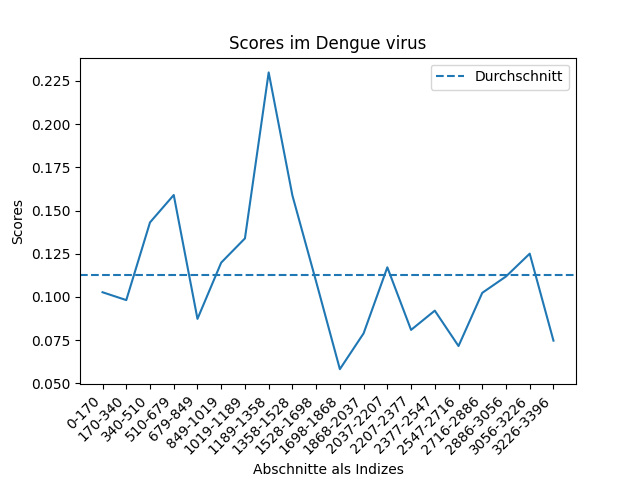
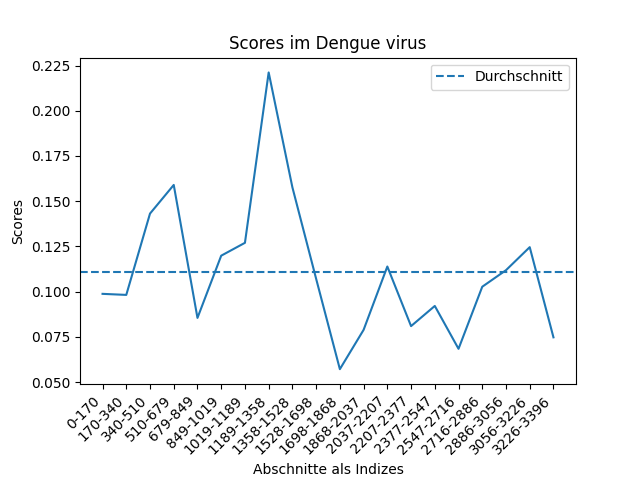
continue writing (backup)

diff --git a/Thesis/Bachelorarbeit.tex b/Thesis/Bachelorarbeit.tex
@@ -15,7 +15,7 @@
 % Language of the thesis:
 %
 % You must use either 'german' or 'english' above, depending on the
-% language used in the main text. This will automatically setup a lot
+% language used in the main text. This will automatically setup a lot 
 % of things in the background.
 %
 %
@@ -327,7 +327,8 @@
 %
 %%%%%%%
 
-
+\setcounter{secnumdepth}{3}
+\setcounter{tocdepth}{3}
 
 
 
@@ -360,8 +361,10 @@ Dengue-Viren sind Arboviren, die haupts\"achlich durch Stechm\"ucken, insbesonde
   \label{fig:Dengue_virus_infektionszahlen_deutschland}
 \end{figure}
 
-Es ist wichtig, die Mutationen der Virenfamilie zu untersuchen und Vorhersagen \"uber die Bereiche zu machen, in denen das Virus eher mutieren kann und wo eher nicht, da Viren, wie die Dengue-Viren, Meister darin sind, das Immunsystem des Menschen zu \"uberlisten. Durch Mutationen k\"onnen sie sich besser an neue Wirte und Umgebungen anpassen, was ihre Verbreitung erleichtert und die Bek\"ampfung erschwert \cite{cramer_dengue-virus_2014}\cite{janisch_klein_2017}. Das Verst\"andnis der Mutationsmuster hilft bei der epidemiologischen \"Uberwachung. Wenn bekannt ist, welche Bereiche des Virusgenoms stabil sind und welche zu Mutationen neigen, k\"onnen Gesundheitsbeh\"orden besser absch\"atzen, wann und wo neue Ausbr\"uche auftreten k\"onnten. Dies ist besonders wichtig in Regionen, in denen invasive Stechm\"uckenarten wie Aedes albopictus nachgewiesen wurden, die als Vektoren f\"ur verschiedene Viren dienen k\"onnen \cite{cramer_dengue-virus_2014}. Die F\"ahigkeit, Mutationen vorherzusagen, kann helfen, potenzielle Pandemien fr\"uhzeitig zu erkennen und Ma\ss{}nahmen zu ergreifen, bevor sich das Virus weit verbreitet \cite{janisch_klein_2017}. Durch die Identifikation stabiler und variabler Regionen des Virusgenoms k\"onnen stabilere Impfstoffe und gezieltere Therapien entwickelt werden. Bei der Entwicklung von Impfstoffen und Medikamenten ist es wichtig absch\"atzen zu k\"onnen, welche Teile des Virus mutieren, da Impfstoffe und antivirale Therapien oft auf spezifische Teile des Virus zielen. Wenn diese Teile mutieren, k\"onnen Impfstoffe und Medikamente weniger wirksam werden \cite{janisch_klein_2017}. 
+Es ist wichtig, die Mutationen der Virenfamilie zu untersuchen und Vorhersagen \"uber die Bereiche zu machen, in denen das Virus eher mutieren kann und wo eher nicht, da Viren, wie die Dengue-Viren, Meister darin sind, das Immunsystem des Menschen zu \"uberlisten. Durch Mutationen k\"onnen sie sich besser an neue Wirte und Umgebungen anpassen, was ihre Verbreitung erleichtert und die Bek\"ampfung erschwert \cite{cramer_dengue-virus_2014, janisch_klein_2017}. Das Verst\"andnis der Mutationsmuster hilft bei der epidemiologischen \"Uberwachung. Wenn bekannt ist, welche Bereiche des Virusgenoms stabil sind und welche zu Mutationen neigen, k\"onnen Gesundheitsbeh\"orden besser absch\"atzen, wann und wo neue Ausbr\"uche auftreten k\"onnten. Dies ist besonders wichtig in Regionen, in denen invasive Stechm\"uckenarten wie Aedes albopictus nachgewiesen wurden, die als Vektoren f\"ur verschiedene Viren dienen k\"onnen \cite{cramer_dengue-virus_2014}. Die F\"ahigkeit, Mutationen vorherzusagen, kann helfen, potenzielle Pandemien fr\"uhzeitig zu erkennen und Ma\ss{}nahmen zu ergreifen, bevor sich das Virus weit verbreitet \cite{janisch_klein_2017}. Durch die Identifikation stabiler und variabler Regionen des Virusgenoms k\"onnen stabilere Impfstoffe und gezieltere Therapien entwickelt werden. Bei der Entwicklung von Impfstoffen und Medikamenten ist es wichtig absch\"atzen zu k\"onnen, welche Teile des Virus mutieren, da Impfstoffe und antivirale Therapien oft auf spezifische Teile des Virus zielen. Wenn diese Teile mutieren, k\"onnen Impfstoffe und Medikamente weniger wirksam werden \cite{janisch_klein_2017}. 
 Insgesamt erm\"oglicht die Untersuchung von Virusmutationen eine proaktive und gezielte Reaktion auf virale Bedrohungen, was entscheidend f\"ur den Schutz der \"offentlichen Gesundheit ist.
+
+Mutationsdruck und Konservierungsdruck erw\"ahnen und kurz erl\"autern!
 
 \section{Beitr\"age dieser Arbeit}
 % In a German thesis write: \section{Beiträge dieser Arbeit}
@@ -410,7 +413,8 @@ Insgesamt erm\"oglicht die Untersuchung von Virusmutationen eine proaktive und g
 \chapter{Material und Methoden}%: Document Setup and Document Structure}
 \label{chapter-use}
 
-\section{Dengue-Virus}
+\section{(Bio-)chemische Grundlagen}
+\subsection{Dengue-Virus}
 Serotypen sind Untergruppen von Mikroorganismen, wie Viren oder Bakterien, die sich durch spezifische antigenetische Eigenschaften unterscheiden. Diese Unterschiede beziehen sich auf die Struktur von Antigenen, die auf der Oberfl\"ache der Mikroben vorhanden sind. Serotypen k\"onnen durch serologische Tests identifiziert werden, bei denen Antik\"orper verwendet werden, um die Reaktion auf bestimmte Antigene zu bestimmen. Im Kontext von Viren, wie den Dengue-Viren, beziehen sich Serotypen auf die vier verschiedenen Varianten (DENV-1 \cite{tittarelli_dengue_2014}, DENV-2 \cite{cao_retrospective_2023}, DENV-3 \cite{peyrefitte_genetic_2003} und DENV-4 \cite{wardhani_genetic_2023}), die unterschiedliche immunologische Reaktionen hervorrufen k\"onnen. In dieser Arbeit schauen wir uns alle vier Serotypen an, um Mutationen zwischen den verschiedenen Serotypen untersuchen zu k\"onnen. 
 Dengue-Viren sind umh\"ullte, positive-Strang-RNA-Viren, die zur Familie der Flaviviridae geh\"oren. Der Virusk\"orper besteht aus einer Lipid-Doppelschicht, die von Membran- (M) und H\"ullproteinen (E) umgeben ist. Im Inneren befindet sich das Nukleokapsid, das aus dem Kapsidprotein (C) und dem Genom-RNA-Strang zusammengesetzt ist. Die H\"ullproteine (E) sind Typ-II-Transmembranproteine, die aus einer N-terminalen Ektodom\"ane, einer Transmembrandom\"ane und einer C-terminalen zytoplasmatischen Dom\"ane bestehen. Die Ektodom\"ane ist f\"ur die Bindung an Wirtszellrezeptoren und die Fusion mit der Wirtszellmembran verantwortlich. Die Transmembrandom\"ane verankert das E-Protein in der Virush\"ulle und durchspannt die Lipid-Doppelschicht. Die kurze zytoplasmatische Dom\"ane interagiert mit dem Kapsidprotein. Die Membranproteine (M) sind ebenfalls Typ-II-Transmembranproteine, die aus einer N-terminalen Ektodom\"ane, einer Transmembrandom\"ane und einer C-terminalen zytoplasmatischen Dom\"ane aufgebaut sind. Sie sind an der Reifung und Freisetzung infekti\"oser Viruspartikel beteiligt. Beide Transmembranproteine, E und M, durchspannen die Lipid-Doppelschicht der Virush\"ulle mit ihren hydrophoben Transmembrandom\"anen. Diese Dom\"anen sind f\"ur die Verankerung und Stabilit\"at der Proteine in der Membran von entscheidender Bedeutung. Mutationen in diesen Regionen k\"onnen die Faltung, Insertion und Stabilit\"at der Proteine beeinflussen und somit die Infektiosit\"at und \"Uberlebensf\"ahigkeit des Virus beeintr\"achtigen. Dengue-Viren besitzen au\ss{}erdem einige nicht-strukturelle Proteine, die f\"ur den Lebenszyklus des Virus entscheidend sind. Die wichtigsten Proteine, die in diesem Zusammenhang erw\"ahnt werden, sind: 2K, NS1, NS2A, NS2B, NS3, NS4A, NS4B und NS5. 2K ist ein kleines Protein, das als Transmembranprotein fungiert und eine Rolle bei der Virusreifung spielt. NS1 ist ein wichtiges virales Glycoprotein, das in der Zelle sekretiert wird und an der Virusreplikation beteiligt ist. Es hat keine transmembrane Region, sondern ist haupts\"achlich im Zytoplasma und im Extrazellul\"arraum aktiv. NS2A ist ein kleines, hydrophobes Protein, das als Transmembranprotein wirkt und an der Membran des endoplasmatischen Retikulums lokalisiert ist. Es spielt eine Rolle bei der Virusreplikation und der Modifikation der Wirtszellmembran. NS2B ist ein Co-Faktor f\"ur die Protease NS3 und hat eine transmembrane Region, die es in die Membran des endoplasmatischen Retikulums einbettet. NS3 ist ein wichtiges Enzym, das als Serinprotease und RNA-Helikase fungiert. Es hat eine transmembrane Region, die es in die Membran integriert. NS4A ist ebenfalls ein Transmembranprotein und spielt eine Rolle in der Virusreplikation und der Modulation der Wirtszellantwort. NS4B ist ein weiteres Transmembranprotein, das an der Virusreplikation beteiligt ist und in der Membran des endoplasmatischen Retikulums lokalisiert ist. NS5 ist das gr\"o\ss{}te Protein des Dengue-Virus, das als RNA-abh\"angige RNA-Polymerase fungiert. Es hat auch eine transmembrane Region, die es in die Membran einbettet.
 Insgesamt sind die Transmembranproteine im Dengue-Virus: E, M, 2K, NS2A, NS2B, NS3, NS4A, NS4B und NS5. Wobei NS2A fast vollst\"andig in der Membran verankert liegt. Der Aufbau des Dengue-Virus und die transmembranen Regionen sind in der Abbildung \ref{fig:Dengue_virus_overview} aus dem Paper \citetitle{perera_structural_2008} von \citeauthor{perera_structural_2008} \cite{perera_structural_2008} visualisiert. \\
@@ -423,9 +427,9 @@ Insgesamt sind die Transmembranproteine im Dengue-Virus: E, M, 2K, NS2A, NS2B, N
 
 Die Untersuchung der Transmembranproteine im Dengue-Virus bietet nicht nur Einblicke in deren strukturelle Eigenschaften, sondern \"offnet auch den Weg zu einem tiefergehenden Verst\"andnis der Wechselwirkungen zwischen diesen Proteinen und ihrer Umgebung. Insbesondere die hydrophoben und hydrophilen Bereiche der Transmembranregionen spielen eine entscheidende Rolle f\"ur die Stabilit\"at und Funktionalit\"at der Proteine. Um die spezifischen Eigenschaften dieser Bereiche zu quantifizieren, ist es notwendig, die Konzepte der polar requirements und der Hydropathie zu betrachten. Diese Konzepte erm\"oglichen es, die hydrophilen und hydrophoben Eigenschaften der Aminos\"auresequenzen zu messen und zu analysieren, was f\"ur das Verst\"andnis der Interaktionen zwischen den transmembren Bereichen und ihrer Umgebung von zentraler Bedeutung ist.
 
-\section{Hydropathie und polar requirements}
+\subsection{Hydropathie und polar requirements}
 Hydropathie beschreibt die Affinit\"at eines Molek\"uls zu Wasser. Molek\"ule k\"onnen als hydrophil (wasserliebend) oder hydrophob (wasserabweisend) klassifiziert werden. Diese Eigenschaften beeinflussen, wie Molek\"ule in biologischen Systemen interagieren, insbesondere in Bezug auf Proteine und deren Funktion. Hydropathie wird besonders h\"aufig verwendet, um eine bestimmte Untergruppe von Proteinen, die Membranproteine, zu untersuchen. Diese liegen teilweise in der Membran und k\"onnen transmembrane Regionen besitzen, wo das Protein die Membran einmal vollst\"andig durchzieht. Jedes Molek\"ul hat ein charakteristisches Hydropathie-Profil, das als eine Art "`Fingerabdruck"' f\"ur seine Struktur betrachtet werden kann. Diese Profile werden h\"aufig verwendet, um die Struktur und Funktion von Membranproteinen zu analysieren und um Beziehungen zwischen verschiedenen Transportproteinen zu identifizieren. In biologischen Systemen spielen hydrophobe und hydrophile Wechselwirkungen eine entscheidende Rolle bei der Faltung von Proteinen, der Bildung von Zellmembranen und der Funktion von Enzymen. Das Verst\"andnis dieser Eigenschaften hilft bei der Vorhersage, wie Molek\"ule in zellul\"aren Umgebungen interagieren. Hydropathie-Analysen werden in der Bioinformatik und Strukturbiologie eingesetzt, um die Topologie von Membranproteinen vorherzusagen und deren funktionelle Eigenschaften besser zu verstehen. Zusammenfassend ist die Hydropathie eine grundlegende chemische Eigenschaft, die entscheidend f\"ur das Verst\"andnis der Molek\"ulinteraktionen in biologischen Systemen ist. Da sie die grundlegenden Molek\"uleigenschaften des Proteins beschreibt. 
-Somit hat auch jede Aminos\"aure einen spezifischen Hydropathiewert. In dieser Arbeit verwenden wir die Werte aus dem Paper \citetitle{kyte_simple_1982} von \citeauthor{kyte_simple_1982} \cite{kyte_simple_1982}. Die in der Abbildung \ref{fig:Hydropathieindexe} zu sehen sind. Die Hydropathie-Indizes, wie sie von \citeauthor{kyte_simple_1982} entwickelt wurden, quantifizieren die hydrophoben und hydrophilen Eigenschaften von Aminos\"auren in Proteinen. Diese Indizes basieren auf der Messung der Energie, die erforderlich ist, um eine Aminos\"aure aus einer w\"assrigen L\"osung in eine hydrophobe Umgebung zu transferieren. Im Wesentlichen wurde f\"ur jede Aminos\"aure ein Wert zugewiesen, der ihre Neigung beschreibt, sich in w\"assriger Umgebung zu l\"osen oder in einer hydrophoben Phase zu verbleiben. Die Werte reichen von stark negativ (sehr hydrophil) bis stark positiv (sehr hydrophob).
+Somit hat auch jede Aminos\"aure einen spezifischen Hydropathiewert. In dieser Arbeit verwenden wir die Werte aus dem Paper \citetitle{kyte_simple_1982} von \citeauthor{kyte_simple_1982} \cite{kyte_simple_1982}, die in der Abbildung \ref{fig:Hydropathieindexe} zu sehen sind. Die Hydropathie-Indizes, wie sie von \citeauthor{kyte_simple_1982} entwickelt wurden, quantifizieren die hydrophoben und hydrophilen Eigenschaften von Aminos\"auren in Proteinen. Diese Indizes basieren auf der Messung der Energie, die erforderlich ist, um eine Aminos\"aure aus einer w\"assrigen L\"osung in eine hydrophobe Umgebung zu transferieren. Im Wesentlichen wurde f\"ur jede Aminos\"aure ein Wert zugewiesen, der ihre Neigung beschreibt, sich in w\"assriger Umgebung zu l\"osen oder in einer hydrophoben Phase zu verbleiben. Die Werte reichen von stark negativ (sehr hydrophil) bis stark positiv (sehr hydrophob).
 \begin{figure}[htpb]
   \centering
   \includegraphics[scale=0.75]{Images/Hydropathy_scores_Paper.png}
@@ -435,26 +439,32 @@ Somit hat auch jede Aminos\"aure einen spezifischen Hydropathiewert. In dieser A
 In dem Paper \citetitle{kyte_simple_1982} \cite{kyte_simple_1982} werden vier spezifische Werte des Hydropathie-Index manuell angepasst. Diese Anpassungen betreffen die Aminos\"auren Glycin, Alanin, Serin und Threonin. Die Gr\"unde f\"ur diese \"Anderungen sind, dass die Autoren die Hydropathie-Indexe dieser Aminos\"auren so modifizieren wollten, dass sie besser die experimentellen Beobachtungen und die biologischen Eigenschaften der Proteine widerspiegeln.
 
 Im chemischen Kontext beziehen sich "`polar requirements"' auf die spezifischen Eigenschaften und Bedingungen, die f\"ur polare Molek\"ule oder chemische Verbindungen erforderlich sind, um in einer bestimmten Umgebung stabil zu sein oder zu interagieren. Diese Anforderungen k\"onnen die Polarit\"at, L\"oslichkeit, Wechselwirkungen mit anderen Molek\"ulen und die F\"ahigkeit zur Bildung von Wasserstoffbr\"ucken umfassen. Molek\"ule mit polaren Gruppen (z. B. Hydroxyl- oder Carboxylgruppen) haben unterschiedliche Eigenschaften im Vergleich zu unpolaren Molek\"ulen. Die Polarit\"at beeinflusst, wie Molek\"ule in L\"osungsmitteln interagieren, insbesondere in w\"assrigen L\"osungen. Polare Molek\"ule sind in polaren L\"osungsmitteln wie Wasser besser l\"oslich. Die polar requirements helfen zu bestimmen, welche Molek\"ule in bestimmten chemischen Reaktionen oder biologischen Prozessen effektiv interagieren k\"onnen. Die polar requirements sind entscheidend f\"ur die Vorhersage von Wechselwirkungen zwischen Molek\"ulen, wie z. B. zwischen Enzymen und Substraten oder zwischen Rezeptoren und Liganden. In der Biochemie sind die polar requirements wichtig f\"ur das Verst\"andnis der Struktur und Funktion von Biomolek\"ulen, einschlie\ss{}lich Proteinen und Nukleins\"auren. Auch polar requirements sind entscheidend f\"ur das grundlegende Verst\"andnis der Molek\"uleigenschaften eines Proteins. 
-Aminos\"auren haben spezifische polar requirements Werte. In dieser Arbeit nutzen wir die Werte aus der Arbeit \citetitle{woese_fundamental_1966} von \citeauthor{woese_fundamental_1966} \cite{woese_fundamental_1966}. Die in der Abbildung \ref{fig:Polar_requirements_indexe} zu sehen sind. 
+Aminos\"auren haben spezifische polar requirements Werte. In dieser Arbeit nutzen wir die Werte aus der Arbeit \citetitle{woese_fundamental_1966} von \citeauthor{woese_fundamental_1966} \cite{woese_fundamental_1966}, die in der Abbildung \ref{fig:Polar_requirements_indexe} zu sehen sind. 
 \begin{figure}[htpb]
   \centering
   \includegraphics[scale=0.6]{Images/polar_requirements_scores_Paper.png}
   \caption{Aminos\"auren mit zugeh\"origen Polar requirements Werten aus \citetitle{woese_fundamental_1966} \cite{woese_fundamental_1966}}
   \label{fig:Polar_requirements_indexe}
 \end{figure}
+Dabei ist zu beachten, dass der Cystein Wert von 11,5 auf 5,5 korrigiert wurde, in dem Paper \citetitle{woese_evolution_1973} von \citeauthor{woese_evolution_1973} im Jahr \citeyear{woese_evolution_1973} \cite{woese_evolution_1973}. Wir nutzen somit die Tabelle mit einem angepassten Cystein-Wert von 5,5. 
 Die Polar-Requirements-Werte, wie sie von \citeauthor{woese_fundamental_1966} eingef\"uhrt wurden, geben an, wie stark eine Aminos\"aure polare Wechselwirkungen eingeht. Diese Werte wurden durch die Messung der freien Enthalpie berechnet, die erforderlich ist, um eine Aminos\"aure von einer unpolaren in eine polare Umgebung zu transferieren. Die polar requirements Werte wurden in einem Experiment bestimmt, bei dem die L\"oslichkeit jeder Aminos\"aure in Wasser und einem unpolaren L\"osungsmittel gemessen wurde. Konkret verwendeten sie Octanol als unpolare Phase. Das Experiment lief folgenderma\ss{}en ab: F\"ur jede der 20 proteinogenen Aminos\"auren wurde die L\"oslichkeit in Wasser und Octanol bestimmt. Dazu wurde eine definierte Menge der Aminos\"aure in beide L\"osungsmittel gegeben und die Konzentration in der jeweiligen Phase gemessen. Aus dem Unterschied in der L\"oslichkeit konnte dann die freie Enthalpie f\"ur den Transfer zwischen den beiden Phasen berechnet werden. Je gr\"o\ss{}er der Wert, desto st\"arker die Tendenz der Aminos\"aure, polare Wechselwirkungen einzugehen und sich in einer w\"assrigen Umgebung aufzuhalten. Die Werte reichen von sehr niedrig (unpolar) bis sehr hoch (polar). Sie erm\"oglichen es, die Aminos\"auren nach ihrer Polarit\"at zu ordnen und R\"uckschl\"usse auf die Oberfl\"achenexposition und Interaktionen von Proteinen zu ziehen. In Kombination mit anderen Parametern wie den Hydropathie-Indizes liefern sie wertvolle Informationen f\"ur die Strukturvorhersage und das Proteindesign.
 
 Obwohl Hydropathie und polar requirements \"ahnliche Eigenschaften untersuchen, zeigt sich bei den Werten einige Unterschiede. Da nicht alle Aminos\"auren einduetig zu klassifiezieren sind, wenn man nur eine der beiden Molek\"uleigenschaften verwendet und somit wertvolle Information \"uber die Struktur des Proteins verloren geht. Aus diesem Grund verwenden wir beide Werte f\"ur die Berechnung. 
 
-\section{Biopython}
-In dieser Arbeit wurde Biopython, eine Sammlung von Python-Bibliotheken f\"ur die Bioinformatik, verwendet, um die Datenanalyse durchzuf\"uhren. Biopython erm\"oglicht die einfache Handhabung von biologischen Datenformaten und die Durchf\"uhrung komplexer bioinformatischer Analysen. Das Modul SeqIO wurde in dieser Arbeit verwendet, um Sequenzen einzulesen. 
+\section{(Bio-)informatische Grundlagen}
+\subsection{Die verwendeten Tools}
+In dieser Arbeit wurde Python \cite{python} als Programmiersprache verwendet, um die Daten zu analysieren und die Ergebnisse zu generieren. Python bietet eine Vielzahl von Bibliotheken wie NumPy \cite{numpy} und Matplotlib \cite{matplotlib}, die speziell f\"ur die Datenanalyse und Visualisierung entwickelt wurden. Zus\"atzlich wurden Funktionen aus den Biopython-Modulen  \cite{cock2009biopython} SeqIO und SeqRecord, sowie Path aus pathlib \cite{pathlib} verwendet. Diese Tools erm\"oglichen es, Daten effizient zu verarbeiten, zu manipulieren und zu visualisieren, was entscheidend f\"ur die Qualit\"at der Analyse ist. Die Verwendung von Python in der Datenanalyse hat sich als vorteilhaft erwiesen, da es eine hohe Flexibilit\"at und Benutzerfreundlichkeit bietet.
 
-\section{T-Coffee}
-T-Coffee (Tree-based Consistency Objective Function for Alignment Evaluation) ist ein in der Bioinformatik weit verbreitetes Werkzeug zur Ausrichtung von DNA-, RNA- und Proteinsequenzen. T-Coffee arbeitet mit einer Ausrichtungsstrategie in Kombination mit einer konsistenzbasierten Bewertungsfunktion. Der Algorithmus f\"ur T-Coffee wird haupts\"achlich in der Originalver\"offentlichung \citetitle{poirot_tcoffeeigs_2003} \cite{poirot_tcoffeeigs_2003} beschrieben. Der Algorithmus hat die folgenden Hauptschritte. Zun\"achst generiert T-Coffee alle m\"oglichen paarweisen Ausrichtungen zwischen den Eingabesequenzen unter Verwendung globaler und lokaler Ausrichtungsmethoden. Anschlie\ss{}end erstellt es eine prim\"are Bibliothek mit Ausrichtungsinformationen aus diesen paarweisen Ausrichtungen und weist jedem ausgerichteten Residuenpaar basierend auf seiner Konsistenz \"uber verschiedene Ausrichtungen hinweg Gewichte zu. Die prim\"are Bibliothek wird durch Einbeziehung transitiver Ausrichtungen erweitert, was hilft, indirekte Beziehungen zwischen Sequenzen zu erfassen. Unter Verwendung der erweiterten Bibliothek konstruiert T-Coffee einen F\"uhrungsbaum und f\"uhrt eine progressive Ausrichtung durch, wobei zun\"achst die \"ahnlichsten Sequenzen ausgerichtet und dann nach und nach entferntere Sequenzen hinzugef\"ugt werden. Die anf\"angliche Ausrichtung wird iterativ verfeinert, um ihre Gesamtqualit\"at und -konsistenz zu verbessern.
+Zus\"atzlich zu Python wurde T-Coffee verwendet, um Ausrichtungen von Seuqnzen zu erzeugen. T-Coffee (Tree-based Consistency Objective Function for Alignment Evaluation) ist ein in der Bioinformatik weit verbreitetes Werkzeug zur Ausrichtung von DNA-, RNA- und Proteinsequenzen. T-Coffee arbeitet mit einer Ausrichtungsstrategie in Kombination mit einer konsistenzbasierten Bewertungsfunktion. Der Algorithmus f\"ur T-Coffee wird haupts\"achlich in der Originalver\"offentlichung \citetitle{poirot_tcoffeeigs_2003} \cite{poirot_tcoffeeigs_2003} beschrieben. Der Algorithmus hat die folgenden Hauptschritte. Zun\"achst generiert T-Coffee alle m\"oglichen paarweisen Ausrichtungen zwischen den Eingabesequenzen unter Verwendung globaler und lokaler Ausrichtungsmethoden. Anschlie\ss{}end erstellt es eine prim\"are Bibliothek mit Ausrichtungsinformationen aus diesen paarweisen Ausrichtungen und weist jedem ausgerichteten Residuenpaar basierend auf seiner Konsistenz \"uber verschiedene Ausrichtungen hinweg Gewichte zu. Die prim\"are Bibliothek wird durch Einbeziehung transitiver Ausrichtungen erweitert, was hilft, indirekte Beziehungen zwischen Sequenzen zu erfassen. Unter Verwendung der erweiterten Bibliothek konstruiert T-Coffee einen F\"uhrungsbaum und f\"uhrt eine progressive Ausrichtung durch, wobei zun\"achst die \"ahnlichsten Sequenzen ausgerichtet und dann nach und nach entferntere Sequenzen hinzugef\"ugt werden. Die anf\"angliche Ausrichtung wird iterativ verfeinert, um ihre Gesamtqualit\"at und -konsistenz zu verbessern.
 T-Coffee zeichnet sich durch seine hohe Genauigkeit aus, insbesondere bei der Bearbeitung kurzer Sequenzen. Es wurde mit anderen Ausrichtungswerkzeugen verglichen und hat gezeigt, dass es Ausrichtungen mit einer Genauigkeit produziert, die mit anderen Methoden wie MUSCLE \cite{Edgar2004MUSCLEL} vergleichbar oder besser ist.
 
-\section{Berechnungsgrundlagen}
-In den folgenden Diagrammen schauen wir uns das Polyprotein des Dengue-Virus an und teilen daf\"ur das Protein in 20 gleich gro\ss{}e Abschnitte auf. F\"ur diese Abschnitte f\"uhren wir die Berechnungen jeweils durch und stellen die einzelnen Ergebnisse dann in einer Grafik gemeinsam dar. Die Serotypen wurden hierf\"ur zuerst mit T-Coffee ausgerichtet. Dadurch waren alle Sequenzen gleich lang und konnten somit in gleich gro\ss{}e Bereiche aufgeteilt werden. Im Folgenden ist von einzelnen Stellen der Sequenzen die Rede; dabei ist gemeint, dass man sich in dem Alignment an einer Stelle alle Sequenzen anschaut. 
+\subsection{Das Erzeugen der Ausgangsdaten und der Diagramme}
+F\"ur die Berechnung werden FASTA-Dateien als Eingabe verlangt. Das FASTA-Dateiformat ist ein textbasiertes Format zur Darstellung von Nukleotid- oder Proteinsequenzen. Es erm\"oglicht die Speicherung mehrerer Sequenzen in einer einzigen Datei. Um die Eingaben f\"ur die Berechnung zu erstellen wurden FASTA-Daten von allen Dengue-Virus-Serotypen (DENV-1 \cite{tittarelli_dengue_2014}, DENV-2 \cite{cao_retrospective_2023}, DENV-3 \cite{peyrefitte_genetic_2003} und DENV-4 \cite{wardhani_genetic_2023}) aus GenBank \cite{genbank} genutzt. GenBank ist eine der bedeutendsten Datenbanken f\"ur DNA-Sequenzen und wird vom National Center for Biotechnology Information (NCBI) betrieben. Sie enth\"alt \"uber 240 Millionen Sequenzen von mehr als einer Million Spezies und dient als zentrale Ressource f\"ur Wissenschaftler, um genetische Informationen zu speichern, abzurufen und zu analysieren.
+Die einzelnen FASTA-Daten wurden f\"ur die ersten Berechnungen in eine gemeinsame FASTA-Datei kopiert und dann mithilfe von dem online Tool T-Coffee ausgerichtet. Diese FASTA-Datei konnte dann f\"ur die Berechnung genutzt werden. Da f\"ur die weitere Auswertung und Berechnung einzelne FASTA-Dateien, in denen jeweils nur ein Protein des Dengue-Virus mit allen Serotypen ausgereichtet wurde, ben\"otigt wurden. Mussten hierf\"ur ein extra Ordner mit FASTA-Dateien erstellt werden. Daf\"ur wurden wieder GenBank-Daten von den Serotypen genutzt. Die mithilfe von Biopython und pathlib einzelnd eingelesen und dann in die jeweiligen Sequenzbereiche aufgeteilt wurden, in dem nach den Sequenzbereichen gesucht wurde, in denen die jeweiligen Proteine liegen. F\"ur jedes Protein wurde dann eine einzelne FASTA-Datei erstellt, in der die entsprechende Sequenz abgelegt wurde. Alle diese FASTA-Dateien f\"ur einen Serotypen wurden automatisch in einem Ordner gesammelt. Es wurden mithilfe von Biopython und pathlib also 4 Ordner f\"ur die 4 Serotypen erstellt, in denen jeweils FASTA-Dateien liegen, die die ben\"otigten Sequenzbereiche beinhalten. Da wir f\"ur die Auswertung jedoch pro Protein eine Datei ben\"otigen, die alle Serotype beinhaltet und ausgerichtet wurde, musste man nun h\"andisch die entsprechenden Dateien zusammenkopieren und mit dem online Tool T-Coffee ausrichten. 
+Um die Ergebnsse der Berechnung anschlie\ss{}end zu visualisieren wurden Abbildungen mithilfen von Matplotlib erzeugt.
+
+\subsection{Berechnungsgrundlagen}
+In den folgenden Diagrammen schauen wir uns das Polyprotein des Dengue-Virus an und teilen daf\"ur das Protein in 20 gleich gro\ss{}e Abschnitte auf. F\"ur diese Abschnitte f\"uhren wir die Berechnungen jeweils durch und stellen die einzelnen Ergebnisse dann in einer Grafik gemeinsam dar. Die Serotypen wurden hierf\"ur zuerst mit T-Coffee ausgerichtet. Dadurch waren alle Sequenzen gleich lang und konnten somit in gleich gro\ss{}e Bereiche aufgeteilt werden. Im Folgenden ist von einzelnen Stellen der Sequenzen die Rede; dabei ist gemeint, dass man sich in der Ausrichtung an einer Stelle alle Sequenzen anschaut. 
 
 Um die Mutationen zu z\"ahlen, schauen wir f\"ur alle Sequenzen, an einer Stelle, ob alle Aminos\"auren gleich sind oder ob es mindestens eine Sequenz gibt, in der es eine andere Aminos\"aure an dieser Stelle gibt. Wenn ein Gap an der Stelle existiert, wird das auch als Mutation gez\"ahlt. Wir gehen dabei \"uber die gesamte L\"ange der Sequenzen und z\"ahlen alle Stellen, an der wir mindestens zwei verschiedene Aminos\"auren oder ein Gap vorfinden. Wir z\"ahlen expliziet nicht, wie viele verschiedene Aminos\"auren es an dieser Stelle gibt. Wenn wir also eine Mutation z\"ahlen, meinen wir, dass an der jeweiligen Stelle mindestens eine Sequenz eine andere Aminos\"aure aufweist, als die Aminos\"aure in der ersten Sequenz oder ein Gap an dieser Stelle besitzt. In den folgenden Grafiken, nutzen wir au\ss{}erdem nur den Anteil an Mutationen \"uber einen Sequenzteil. Wir berechen die Anzahl an Mutationen daf\"ur anteilig f\"ur die L\"ange der jeweiligen Sequenz. Wir berechnen also, verh\"altnism\"a\ss{}ig, an wie vielen Stellen die Sequenz mutiert ist. F\"ur das Polyprotein des Dengue-Virus ergibt sich dadurch die Abbildung \ref{fig:Dengue_virus_mutations}. 
 \begin{figure}[htpb]
@@ -464,7 +474,7 @@ Um die Mutationen zu z\"ahlen, schauen wir f\"ur alle Sequenzen, an einer Stelle
   \label{fig:Dengue_virus_mutations}
 \end{figure}
 
-Im n\"achsten Schritt wird f\"ur jede Stelle der Sequenzen der minimale und der maximale Wert ausgerechnet, den die Aminos\"auren in Bezug auf polar requirements zugeordnet bekommen. Wir nutzen hierf\"ur die Werte aus der Abbildung \ref{fig:Polar_requirements_indexe} als Grundlage, um den Aminos\"auren Werte zuzuordnen. Wir normieren die Werte vor den weiteren Berechnungsschritten noch auf einen Wertebereich zwischen 0 und 1. Gaps haben keine zugeordneten Werte und werden somit bei der Berechnung der polar requirements nicht beachtet. Wir berechnen nun die Differenz zwischen dem maximalen und minimalen Wert an der jeweiligen Stelle. Da wir die Werte voher normiert haben, ist die maximale Differenz zwischen den Aminos\"auren 1 und die minimale 0. Insgesamt berechnen wir f\"ur jede Stelle einer Teilsequenz diese Differenzen und addieren sie auf, damit wir f\"ur eine Teilsequenz dann mithilfe der L\"ange der Teilsequenz den Durschnitt der Differenzen berechnen k\"onnen. Der polar requirements Wert f\"ur eine Teilsequenz ist somit die durchschnittliche Differenz des maximalen und minimalen normierten Wertes an jeder Stelle der Teilsequenz. F\"ur das Polyprotein des Dengue-Virus ergibt sich dadurch folgende Abbildung \ref{fig:Dengue_virus_polar_requirements}. 
+Im n\"achsten Schritt wird f\"ur jede Stelle der Sequenzen der minimale und der maximale Wert ausgerechnet, den die Aminos\"auren in Bezug auf polar requirements zugeordnet bekommen. Wir nutzen hierf\"ur die Werte aus der Abbildung \ref{fig:Polar_requirements_indexe} als Grundlage, um den Aminos\"auren Werte zuzuordnen. Wir normieren die Werte vor den weiteren Berechnungsschritten noch auf einen Wertebereich zwischen 0 und 1. Gaps haben keine zugeordneten Werte und werden somit bei der Berechnung der polar requirements nicht beachtet. Wir berechnen nun die Differenz zwischen dem maximalen und minimalen Wert an der jeweiligen Stelle. Da wir die Werte voher normiert haben, ist die maximale Differenz zwischen den Aminos\"auren 1 und die minimale 0. Insgesamt berechnen wir f\"ur jede Stelle einer Teilsequenz diese Differenzen und addieren sie auf, damit wir f\"ur eine Teilsequenz dann mithilfe der L\"ange der Teilsequenz den Durschnitt der Differenzen berechnen k\"onnen. Der polar requirements Wert f\"ur eine Teilsequenz ist somit die durchschnittliche Differenz des maximalen und minimalen normierten Polar-requirements-Wertes an jeder Stelle der Teilsequenz. F\"ur das Polyprotein des Dengue-Virus ergibt sich dadurch folgende Abbildung \ref{fig:Dengue_virus_polar_requirements}. 
 \begin{figure}[htpb]
   \centering
   \includegraphics[scale=0.75]{Images/Diagramm_Polar_requirements_im_Dengue_virus.png}
@@ -472,7 +482,7 @@ Im n\"achsten Schritt wird f\"ur jede Stelle der Sequenzen der minimale und der 
   \label{fig:Dengue_virus_polar_requirements}
 \end{figure}
 
-F\"ur Hydropathie berechnen wir die Werte gleicherma\ss{}en. Wir nutzen daf\"ur die Werte aus der Abbildung \ref{fig:Hydropathieindexe} und berechnen die Werte auf die selbe Weise wie bei den polar requirements. Gaps werden hier auch wieder nicht ber\"ucksichtigt. Wir berechnen also die durchschnittliche Differenz des maximalen und minimalen normierten Wertes an jeder Stelle der Teilsequenz. F\"ur das Polyprotein des Dengue-Virus ergibt sich dadurch folgende Abbildung \ref{fig:Dengue_virus_hydropathy}. 
+F\"ur Hydropathie berechnen wir die Werte gleicherma\ss{}en. Wir nutzen daf\"ur die Werte aus der Abbildung \ref{fig:Hydropathieindexe} und berechnen die Werte auf die selbe Weise wie bei den polar requirements. Gaps werden hier auch wieder nicht ber\"ucksichtigt. Wir berechnen also die durchschnittliche Differenz des maximalen und minimalen normierten Hydropathie-Wertes an jeder Stelle der Teilsequenz. F\"ur das Polyprotein des Dengue-Virus ergibt sich dadurch folgende Abbildung \ref{fig:Dengue_virus_hydropathy}. 
 \begin{figure}[htpb]
   \centering
   \includegraphics[scale=0.75]{Images/Diagramm_Hydropathie_im_Dengue_virus.png}
@@ -480,7 +490,7 @@ F\"ur Hydropathie berechnen wir die Werte gleicherma\ss{}en. Wir nutzen daf\"ur 
   \label{fig:Dengue_virus_hydropathy}
 \end{figure}
 
-Um einen gemeinsamen Score zu bilden, werden nun die Werte f\"ur polar requirements und Hydropathie f\"ur eine Teilsequenz gemittelt. Der Score ist also der Durchschnitt \"uber die durchschnittlichen Differenzen des maximalen und minimalen Wertes f\"ur Hydropathie und polar requirements an jeder Stelle der Teilsequenz. F\"ur das Polyprotein des Dengue-Virus ergibt sich dadurch folgende Abbildung \ref{fig:Dengue_virus_scores}. 
+Um einen gemeinsamen Score zu bilden, werden nun die Werte f\"ur polar requirements und Hydropathie f\"ur eine Teilsequenz gemittelt. Der Score ist also der Mittelwert zwischen den durchschnittlichen Differenzen des maximalen und minimalen normierten Ploar-requirements-Wertes und dem durchschnittlichen Differenzen des maximalen und minimalen normierten Hydropathie-Wertes an jeder Stelle der Teilsequenz. F\"ur das Polyprotein des Dengue-Virus ergibt sich dadurch folgende Abbildung \ref{fig:Dengue_virus_scores}. 
 \begin{figure}[htpb]
   \centering
   \includegraphics[scale=0.75]{Images/Diagramm_Scores_im_Dengue_virus.png}
@@ -496,15 +506,15 @@ Die Abbildung \ref{fig:Dengue_virus_scores_and_mutations_bereiche} kombiniert de
   \label{fig:Dengue_virus_scores_and_mutations_bereiche}
 \end{figure}
 
-Die Abbildung \ref{fig:Dengue_virus_scores_and_mutations_bereiche_random} folgt den gleichen Berechnungen wie die Abbildung \ref{fig:Dengue_virus_scores_and_mutations_bereiche}. F\"ur diese Abbildung nutzen wir jedoch nicht das Polyprotein des Dengue-Virus in normaler Form, sondern ver\"andern die Sequenzen, bevor wir die Scores und Mutationen berechnen. Wir erstellen eine zuf\"allige Permutation des Dengue-Viruses, indem wir eine Stelle des Alignments aller Serotypen zuf\"allig ausw\"ahlen und mit einer anderen zuf\"alligen Stelle vertauschen. Das Alignment bleibt also prinzipiell erhalten, und es werden nur einzelne Stellen des Alignments an eine andere Position im Alignment vertauscht. F\"ur die Abbildung \ref{fig:Dengue_virus_scores_and_mutations_bereiche_random} wurden 1000 zuf\"allige Vertauschungen nacheinander durchgef\"uhrt. Es kann also auch eine Stelle mehrfach vertauscht werden. 
+Die Abbildung \ref{fig:Dengue_virus_scores_and_mutations_bereiche_random} folgt den gleichen Berechnungen wie die Abbildung \ref{fig:Dengue_virus_scores_and_mutations_bereiche}. F\"ur diese Abbildung nutzen wir jedoch nicht das Polyprotein des Dengue-Virus in normaler Form, sondern ver\"andern die Sequenzen, bevor wir die Scores und Mutationen berechnen. Wir erstellen eine zuf\"allige Permutation des Dengue-Viruses, indem wir eine Stelle der Ausrichtung aller Serotypen zuf\"allig ausw\"ahlen und mit einer anderen zuf\"alligen Stelle vertauschen. Die Ausrichtung bleibt also prinzipiell erhalten, und es werden nur einzelne Positionen der Ausrichtung mit einer anderen Position in der Ausrichtung vertauscht. F\"ur die Abbildung \ref{fig:Dengue_virus_scores_and_mutations_bereiche_random} wurden 10.000 zuf\"allige Vertauschungen nacheinander durchgef\"uhrt. Es kann also auch eine Stelle mehrfach vertauscht werden. 
 \begin{figure}[htpb]
   \centering
   \includegraphics[scale=0.75]{Images/Diagramm_Scores_und_Mutationen_Dengue_viren_Bereiche_random.png}
-  \caption{Diagramm: Scores und Mutationen Dengue-Viren: automatische Auteilung der Sequenzen in 20 gleich gro\ss{}e Bereiche mit zuf\"alliger Permutation des Dengue-Viruses mit 1000 Vertauschungen}
+  \caption{Diagramm: Scores und Mutationen Dengue-Viren: automatische Auteilung der Sequenzen in 20 gleich gro\ss{}e Bereiche mit zuf\"alliger Permutation des Dengue-Viruses mit 10.000 Vertauschungen}
   \label{fig:Dengue_virus_scores_and_mutations_bereiche_random}
 \end{figure}
 
-Die Abbildung \ref{fig:Dengue_virus_scores_and_mutations_namen} benutzt auch die gleichen Berechnungen wie die Abbildung \ref{fig:Dengue_virus_scores_and_mutations_bereiche}. Hierbei wurden jedoch die Sequenzteile f\"ur die Berechnung ver\"andert. W\"ahrend bei den bisherigen Abbildungen gleich gro\ss{}e Bereiche ausgew\"ahlt werden, werden in dieser Abbildung verschieden gro\ss{}e Bereiche berechnet. Wir betrachten jedes Protein des Polyproteins einzeln und berechnen f\"ur jedes Protein einen Score und den Anteil an Mutationen. Daf\"ur suchen wir zuerst die betreffenden Regionen im Polyprotein f\"ur jeden Serotypen und erstellen dann ein Alignment mithilfe von T-Coffee, explizit f\"ur diese Region, um dann basierend auf diesem Alignment einen Score und den Anteil an Mutationen zu berechnen. Da die Proteine nicht alle die gleiche L\"ange haben, sind die betrachteten Bereiche nun unterschiedlich gro\ss{}. Da jedoch beide berechneten Werte anteilig in Bezug auf die L\"ange berechnet werden, bleiben die Werte vergleichbar miteinander. 
+Die Abbildung \ref{fig:Dengue_virus_scores_and_mutations_namen} benutzt auch die gleichen Berechnungen wie die Abbildung \ref{fig:Dengue_virus_scores_and_mutations_bereiche}. Hierbei wurden jedoch die Sequenzteile f\"ur die Berechnung ver\"andert. W\"ahrend bei den bisherigen Abbildungen gleich gro\ss{}e Bereiche ausgew\"ahlt wurden, werden in dieser Abbildung verschieden gro\ss{}e Bereiche berechnet. Wir betrachten jedes Protein des Polyproteins einzeln und berechnen f\"ur jedes Protein einen Score und den Anteil an Mutationen. Daf\"ur suchen wir zuerst die betreffenden Regionen im Polyprotein f\"ur jeden Serotypen und erstellen dann ein Alignment mithilfe von T-Coffee, explizit f\"ur diese Region, um dann basierend auf diesem Alignment einen Score und den Anteil an Mutationen zu berechnen. Da die Proteine nicht alle die gleiche L\"ange haben, sind die betrachteten Bereiche nun unterschiedlich gro\ss{}. Da jedoch beide berechneten Werte anteilig in Bezug auf die L\"ange berechnet werden, bleiben die Werte vergleichbar miteinander. 
 \begin{figure}[htpb]
   \centering
   \includegraphics[scale=0.75]{Images/Diagramm_Scores_und_Mutationen_Dengue_viren_Namen.png}
@@ -514,7 +524,7 @@ Die Abbildung \ref{fig:Dengue_virus_scores_and_mutations_namen} benutzt auch die
 
 \chapter{Ergebnisse}
 In der Abbildung \ref{fig:Dengue_virus_scores_and_mutations_bereiche} sind starke Abweichungen von den durchschnittlichen Werten f\"ur den Score und den Anteil an Mutationen zu erkennen. Insbesondere bei den Abschnitten 1189-1358 und 1698-1868 ist ein Maximum beziehungsweise ein Minimum zu erkennen. Um zu sch\"atzen, ob diese Extrema signifikant sind und nicht nur zuf\"alligen Schwankungen unterliegen, betrachten wir die Abbildung \ref{fig:Dengue_virus_scores_and_mutations_bereiche_random}. Hier wurde die Sequenz zuf\"allig permutiert. Wenn die Extrema zuf\"allige Schwankungen sind, k\"onnen wir annehmen, dass, wenn wir die Sequenz zuf\"allig stellenweise vertauschen, dass dann Extrema weiterhin im selben Ausma\ss{} vorkommen. Wenn die Extrema nicht auf Zufall basieren, sollten die Extrema in der zuf\"allig permutierten Sequenz abgeschw\"acht vorkommen. Die Werte sollten sich also dem Durchschnitt ann\"ahern, da die starken H\"aufungen von Mutationen oder die starken regionalen Ver\"anderungen im Score abgeschw\"acht wurden, indem einzelne Stellen aus diesem Bereich mit Stellen aus anderen Bereichen der Sequenz, in denen weniger Mutationen oder gro\ss{}e Differenzen im Score zu finden sind, vertauscht wurden. Da die Vertauschungen jedoch zuf\"allig ausgef\"uhrt wurden, existiert kein Bias dar\"uber, welche Stellen ausgew\"ahlt und vertauscht wurden. Sollten die Extrema also zuf\"allig entstanden sein, sollten sich nun an einigen Stellen in der Sequenz wieder geh\"auft Mutationen finden lassen oder starke Ver\"anderungen im Score bestehen. 
-Zu erkennen in der Abbilung \ref{fig:Dengue_virus_scores_and_mutations_bereiche_random} ist, dass der Bereich \"uber den sich die Werte erstrecken verkleinert ist, im Vergleich zur Abbildung \ref{fig:Dengue_virus_scores_and_mutations_bereiche}. Bei der Abbildung \ref{fig:Dengue_virus_scores_and_mutations_bereiche_random} sind f\"ur die Scores Werte im Bereich von circa 0,0582 bis 0,2299 zu erkennen und f\"ur den Anteil an Mutationen Werte im Bereich von circa 0,2176 bis 0,7811. Bei der Abbildung \ref{fig:Dengue_virus_scores_and_mutations_bereiche} sind f\"ur den Score Werte im Bereich von circa 0,0826 bis 0,1778 zu erkennen und f\"ur den Anteil an Mutationen Werte im Bereich von circa 0,3195 bis 0,6036. Die Extrema sind also abgeschw\"acht, wodurch anzunehmen ist, dass die Extrema nicht nur zuf\"allig entstanden sind. Deshalb nehmen wir an, dass die Ergebnisse auch signifikant sind, da die Werte nicht nur zuf\"alligen Schwankungen unterliegen.  
+Zu erkennen in der Abbilung \ref{fig:Dengue_virus_scores_and_mutations_bereiche_random} ist, dass der Bereich \"uber den sich die Werte erstrecken verkleinert ist, im Vergleich zur Abbildung \ref{fig:Dengue_virus_scores_and_mutations_bereiche}. Bei der Abbildung \ref{fig:Dengue_virus_scores_and_mutations_bereiche_random} sind f\"ur die Scores Werte im Bereich von circa 0,0809 bis 0,1422 zu erkennen. Der Wertebereich hat damit eine Spannweite von 0,0613. F\"ur den Anteil an Mutationen sind Werte im Bereich von circa 0,3588 bis 0,4588 erkennbar, was einem Wertebereich mit einer Spannweite von 0,1 entspricht. Bei der Abbildung \ref{fig:Dengue_virus_scores_and_mutations_bereiche} sind f\"ur den Score Werte im Bereich von circa 0,0571 bis 0,2212 zu erkennen. Der Wertebereich hat damit eine Spannweite von 0,1641 und ist damit deultlich gr\"o\ss{}er, als bei der zuf\"alligen Permutation. F\"ur den Anteil an Mutationen sind Werte im Bereich von circa 0,2176 bis 0,7811 erkennbar, was einem Wertebereich mit einer Spannweite von 0,5635. Auch hier ist die Spannweite des Wertebereiches deutlich verg\"o\ss{}ert im Vergleich zur zuf\"alligen Permutation. Au\ss{}erdem ist klr erkennabr, dass die Extrema stark abgeschw\"acht sind, wodurch anzunehmen ist, dass die Extrema nicht nur zuf\"allig entstanden sind. Deshalb nehmen wir an, dass die Ergebnisse auch signifikant sind, da die Werte nicht nur zuf\"alligen Schwankungen unterliegen.  
 
 Um die Fragestellung zu beantworten betrachten wir die Abbildung \ref{fig:Dengue_virus_scores_and_mutations_namen}. Hierbei f\"allt direkt auf, dass die Proteine NS2A, NS3 und NS4B besonders extreme Werte aufweisen, sowohl bei dem Score als auch bei dem Anteil an Mutationen. Das Protein NS2A hat dabei besonders hohe Werte, weshalb davon auszugehen ist, dass kein besonders starker Konservierungsdruck in diesem Protein vorhanden sein kann, sondern das Protein eher einem gro\ss{}en Mutationsdruck unterliegt und besonders h\"aufig mutiert. Die Proteine NS3 und NS4B weisen hingegen besonders niedrige Werte auf, sodass von einem starken Konservierungsdruck und einem sehr niedrigem Mutationsdruck innerhalb der Proteine ausgegangen werden kann. 
 
@@ -778,7 +788,7 @@ Ruperto Carola, Nr. 11 (2017): Schein \& Sein},
 
 @article{cock2009biopython,
   title={Biopython: freely available Python tools for computational biology and bioinformatics},
-  author={Cock, P. J. A. and Antao, T. and Chang, J. T. and Chapman, B. A. and Cox, C. J. and Dalke, A. and Friedberg, I. and Hamelryck, T. and Kauff, F. and Wilczynski, B. and others},
+  author={Cock, P. J. A. and Antao, T. and Chang, J. T. and Chapman, B. A. and Cox, C. J. and Dalke, A. and Friedberg, I. and Hamelryck, T. and Kauff, F. and Wilczynski, B. and de Hoon, M. J. L.},
   journal={Bioinformatics},
   volume={25},
   number={11},
@@ -854,6 +864,57 @@ Ruperto Carola, Nr. 11 (2017): Schein \& Sein},
 	pages = {36--44},
 }
 
+
+@article{woese_evolution_1973,
+	title = {Evolution of the genetic code},
+	volume = {60},
+	issn = {0028-1042},
+	doi = {10.1007/BF00592854},
+	language = {eng},
+	number = {10},
+	journal = {Die Naturwissenschaften},
+	author = {Woese, C. R.},
+	month = oct,
+	year = {1973},
+	pmid = {4588588},
+	pages = {447--459},
+}
+
+@misc{python,
+  author = {Python Software Foundation},
+  title = {Python Programming Language},
+  year = {2024},
+  note = {Verf\"ugbar unter: \url{https://www.python.org/}}
+}
+
+@misc{pathlib,
+  author = {Python Software Foundation},
+  title = {pathlib: Object-oriented filesystem paths},
+  year = {2024},
+  note = {Verf\"ugbar unter: \url{https://docs.python.org/3/library/pathlib.html}}
+}
+
+@misc{matplotlib,
+  author = {Matplotlib Developers},
+  title = {Matplotlib: Comprehensive library for creating static, animated, and interactive visualizations in Python},
+  year = {2024},
+  note = {Verf\"ugbar unter: \url{https://matplotlib.org/}}
+}
+
+@misc{numpy,
+  author = {NumPy Developers},
+  title = {NumPy: Fundamental package for scientific computing in Python},
+  year = {2024},
+  note = {Verf\"ugbar unter: \url{https://numpy.org/}}
+}
+
+@misc{genbank,
+  title = {GenBank},
+  author = {{National Center for Biotechnology Information}},
+  year = {2023},
+  note = {Zugriff am 20. September 2024},
+  url = {https://www.ncbi.nlm.nih.gov/genbank/}
+}
 
 \end{bibtex-entries}
 

diff --git a/Biopython Test/sequence_analysis.py b/Biopython Test/sequence_analysis.py
@@ -50,8 +50,8 @@ def get_normalized_hydropathy(aminoacid):
 extreme_value_polar_requirements = 8.95 # Mittelwert der restlichen Scores
 polar_requirements_scores = {
     "A":  7.0,  # A: alanine
-    "B": 11.5,  # B: easpartate (aspartic acid)/asparagine -> Achtung: hier wurde der Mittelwert zwischen den biden Säuren verwendet
-    "C": 11.5,  # C: cystine
+    "B": 11.5,  # B: aspartate (aspartic acid)/asparagine -> Achtung: hier wurde der Mittelwert zwischen den biden Säuren verwendet
+    "C":  5.5,  # C: cystine
     "D": 13.0,  # D: aspartate (aspartic acid)
     "E": 12.5,  # E: glutamate (glutamic acid)
     "F":  5.0,  # F: phenylalanine
@@ -71,7 +71,7 @@ polar_requirements_scores = {
     "V":  5.6,  # V: valine
     "W":  5.3,  # W: tryptophan
     "Y":  5.7,  # Y: tyrosine
-    "Z": 10.55,  # Z: glutamate (glutamic acid)/glutamine-> Achtung: hier wurde der Mittelwert zwischen den beiden Säuren verwendet
+    "Z":10.55,  # Z: glutamate (glutamic acid)/glutamine-> Achtung: hier wurde der Mittelwert zwischen den beiden Säuren verwendet
     "X":    extreme_value_polar_requirements,  # X: any
     "*":    extreme_value_polar_requirements,  # *: translation stop
     "-":    extreme_value_polar_requirements,  # -: gap of indeterminate length
@@ -434,7 +434,7 @@ plt.show()
 
 
 # plots mit random Sequenzverteilung und 20 Abschnitten (kombinierte Graphik mit Scores und Mutations; naiver Ansatz)
-outer_scope_number_of_swaps = 1000
+outer_scope_number_of_swaps = 10000
 #random_sequence_permutation("aligned_polyprotein_dengue_virus.fasta", "fasta", outer_scope_number_of_swaps, "random_aligned_polyprotein_dengue_virus.fasta")
 outer_scope_amount_of_sequences = 20
 outer_scope_sequence_length = calculate_sequence_length("random_aligned_polyprotein_dengue_virus.fasta")
